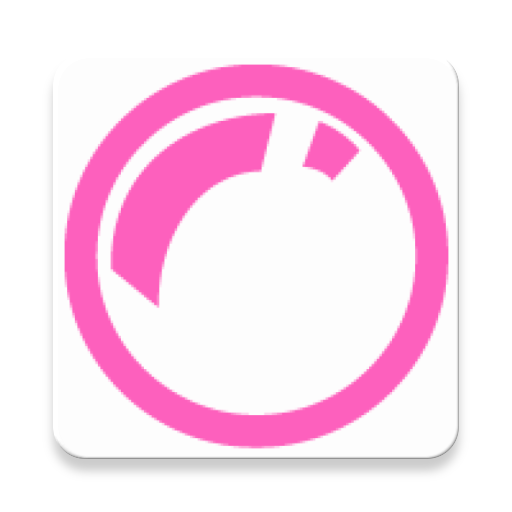
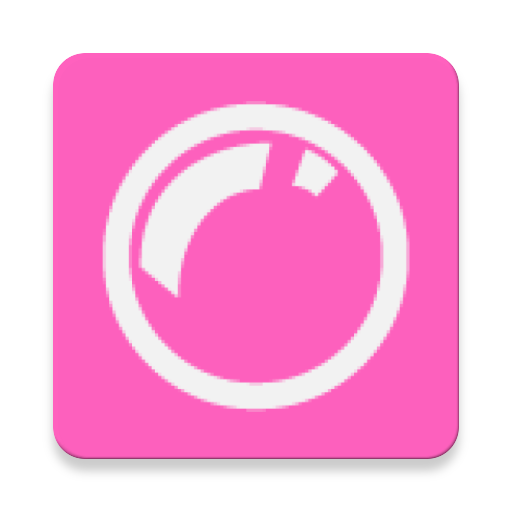
Comments for Artist, Snippets and some parts of UserProfileFragment
New app icon

diff --git a/app/src/main/java/com/bubblestudios/bubble/UserProfileFragment.java b/app/src/main/java/com/bubblestudios/bubble/UserProfileFragment.java
@@ -78,9 +78,9 @@ public class UserProfileFragment extends Fragment {
 
         View view = inflater.inflate(R.layout.fragment_user_profile, container, false);
 
-        user = FirebaseAuth.getInstance().getCurrentUser();
+        user = FirebaseAuth.getInstance().getCurrentUser(); //get current user from Firebase
 
-        FirebaseStorage storage = FirebaseStorage.getInstance();
+        FirebaseStorage storage = FirebaseStorage.getInstance(); //getting instance from Firebase
         StorageReference storageRef = storage.getReference();
         final StorageReference albumArtRef = storageRef.child("AlbumArt");
 
@@ -109,35 +109,39 @@ public class UserProfileFragment extends Fragment {
             }
         });
 
+
+        // ItemTouchHelper is used to implement swipe function for RecyclerView
         ItemTouchHelper helper = new ItemTouchHelper(new ItemTouchHelper.SimpleCallback(0, ItemTouchHelper.LEFT) {
+            //This is used to drag items on RecyclerView, as it is not needed we set it to false
             @Override
             public boolean onMove(@NonNull RecyclerView recyclerView, @NonNull RecyclerView.ViewHolder viewHolder, @NonNull RecyclerView.ViewHolder viewHolder1) {
                 return false;
             }
 
+            //Swipe to delete item from liked songs list
             @Override
             public void onSwiped(@NonNull RecyclerView.ViewHolder target, int i) {
 
-                int position = target.getAdapterPosition();
-                Snippet snippet = adapter.getItem(position);
-                DocumentReference documentReference = adapter.getItemReference(position);
-                String userID = user.getUid();
+                int position = target.getAdapterPosition(); //get adapter position
+                Snippet snippet = adapter.getItem(position); //get snippet at that position
+                DocumentReference documentReference = adapter.getItemReference(position); // generate document reference to Firebase for specific snippet
+                String userID = user.getUid(); //get current user
 
-                documentReference.update("liked_users", arrayRemove(userID));
-                documentReference.update("disliked_users", arrayUnion(userID));
+                documentReference.update("liked_users", arrayRemove(userID)); //remove the current user from the liked_users array for this snippet
+                documentReference.update("disliked_users", arrayUnion(userID));//add the user to disliked_users for the song
 
-                adapter.removeItem(position);
-                adapter.notifyDataSetChanged();
+                adapter.removeItem(position); //remove item from Recyler View
+                adapter.notifyDataSetChanged();//notify the adapter of the change
 
 
             }
         });
 
 
-        helper.attachToRecyclerView(likedSongRecyclerView);
+        helper.attachToRecyclerView(likedSongRecyclerView);//attach this ItemTouchHelper to likedSongRecyclerview
 
 
-        return view;
+        return view; //displays the Recyler View
     }
 
     @Override

diff --git a/app/src/main/java/com/bubblestudios/bubble/Snippet.java b/app/src/main/java/com/bubblestudios/bubble/Snippet.java
@@ -6,17 +6,19 @@ import com.google.firebase.firestore.ServerTimestamp;
 import java.util.Date;
 import java.util.List;
 
+//class snippet is defined for each song clip, it contains the main characteristics of a song as methods
 public class Snippet {
     private String title;
     private String artist;
     private String snippet;
-    private String albumArt;
-    private String songBlurb;
-    private DocumentReference artistRef;
+    private String albumArt; //picture of album ocover
+    private String songBlurb; // description of the song
+    private DocumentReference artistRef; // reference to the artists in Firebase
     private List<String> liked_users;
     private List<String> disliked_users;
     @ServerTimestamp private Date timeStamp;
 
+    //constructor with arguments
     public Snippet(String title, String artist, String songBlurb, String snippet, String albumArt, List<String> liked_users, List<String> disliked_users, DocumentReference artistRef) {
         this.title = title;
         this.artist = artist;
@@ -28,7 +30,7 @@ public class Snippet {
         this.artistRef = artistRef;
         }
 
-    public Snippet() {}
+    public Snippet() {} // constructor with no arguments
 
     public String getTitle() {
         return title;

diff --git a/app/src/main/java/com/bubblestudios/bubble/Artist.java b/app/src/main/java/com/bubblestudios/bubble/Artist.java
@@ -6,24 +6,28 @@ import com.google.firebase.firestore.ServerTimestamp;
 import java.util.Date;
 import java.util.List;
 
+
+//class artist contains the artist information
 public class Artist {
 
     private String artistName;
     private String artistArt;
-    private String artistBlurb;
+    private String artistBlurb; //description of artist
     @ServerTimestamp
     private Date timeStamp;
 
-
+    //default constructor with no arguments
     public Artist() {
     }
 
+    //constructor with arguments
     public Artist(String artistName, String artistBlurb, String artistArt) {
     this.artistName = artistName;
     this.artistBlurb = artistBlurb;
     this.artistArt = artistArt;
 }
 
+    //get and set functions for methods
     public String getArtistName() {
         return artistName;
     }
